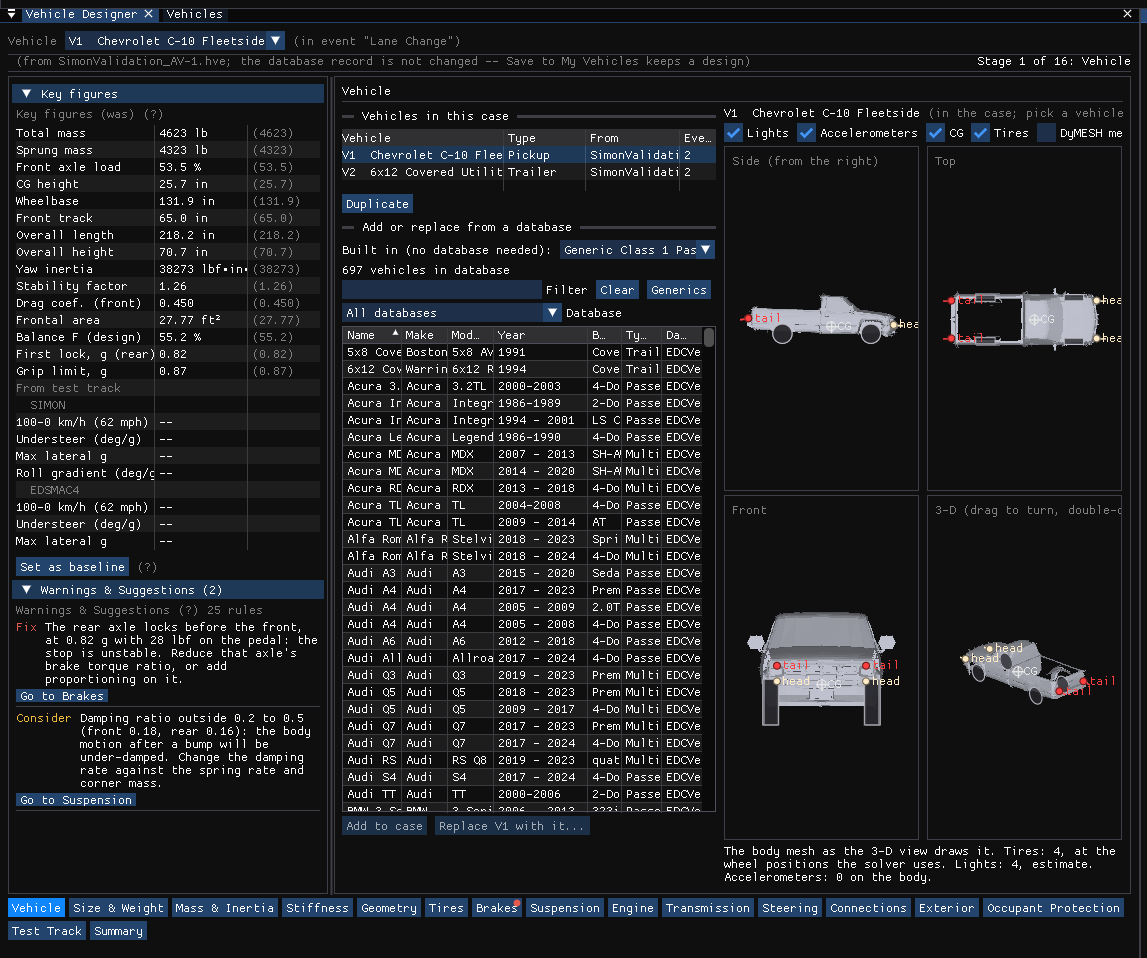
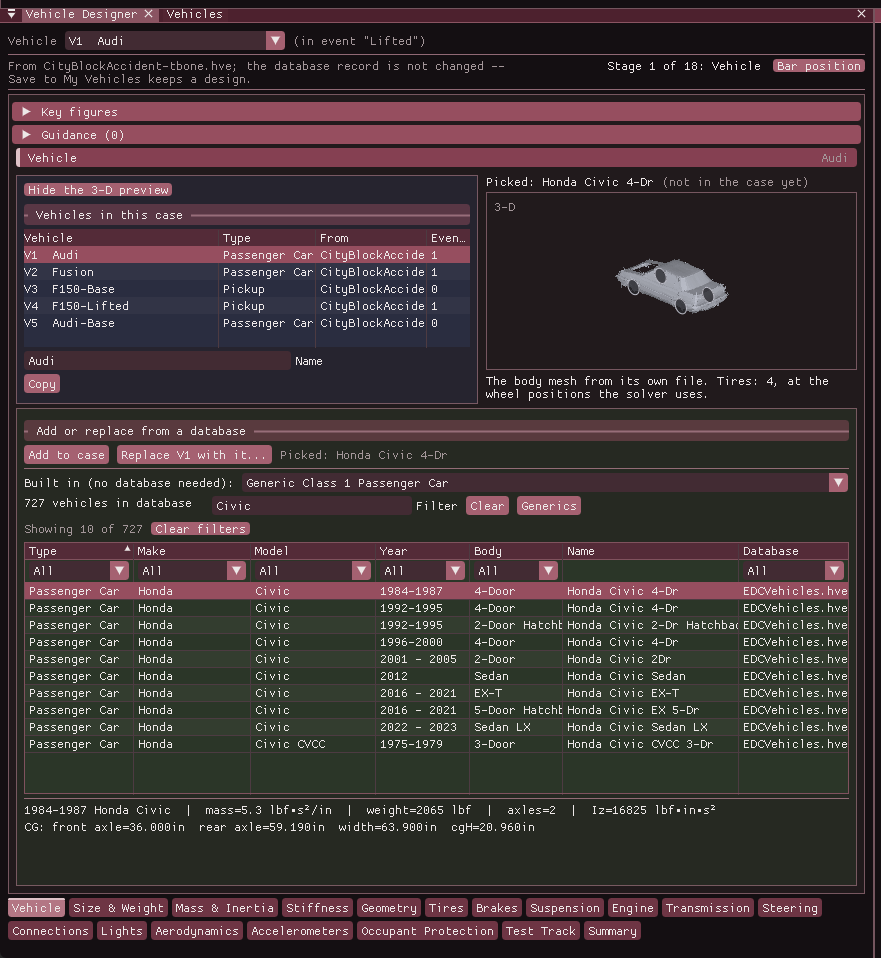
Studio manuals: Home frames all, orbit key directions, cameras Select/Show Limits, scan region points, point cloud layout, Vehicle stage layout, Key figures precision
Claude-Session: https://claude.ai/code/session_01HKL5ytwPPvRaJvMM9JRUTd

diff --git a/hve-studio-next/docs/manuals/01-user-interface/CameraSetDlg.md b/hve-studio-next/docs/manuals/01-user-interface/CameraSetDlg.md
@@ -9,9 +9,9 @@ In HVE Studio the same job is done by the **Cameras** window: **Tools › Camera
 ## Saved Cameras tab
 
 ### Camera
-A drop-down list of the saved cameras; *(active)* marks the one driving the Viewport and *(modified)* one that has been re-framed in the Viewport without being saved. **Add** creates a new camera from the current view, **Delete** deletes the selected camera, and **Rename** renames it.
+A drop-down list of the saved cameras; *(selected)* marks the one driving the Viewport and *(modified)* one that has been re-framed in the Viewport without being saved. **Add** creates a new camera from the current view, **Delete** deletes the selected camera, and **Rename** renames it.
 
-When the active camera has been re-framed in the Viewport, the window shows it as *Current -- re-framed from "<name>", not saved*, with **Save as New**, **Overwrite "<name>"** and **Revert** buttons.
+When the selected camera has been re-framed in the Viewport, the window shows it as *Current -- re-framed from "<name>", not saved*, with **Save as New**, **Overwrite "<name>"** and **Revert** buttons.
 
 ### Position
 **Carried by**
@@ -38,7 +38,7 @@ For a camera placed in the scene the dialog shows the aim both ways, kept in ste
 
 Changing Carried by, Inherit or Points at keeps the camera where it is and looking where it looks at the playback time, as far as the new setting allows.
 
-An orange note reminds that only the **active** camera drives the Viewport.
+An orange note reminds that only the **selected** camera drives the Viewport.
 
 ### Roll (deg)
 Rotates the camera about its viewing axis, tilting (banking) the picture. 0 keeps the horizon level. HVE's *Camera Tilt Angle*.
@@ -50,13 +50,13 @@ Rotates the camera about its viewing axis, tilting (banking) the picture. 0 keep
 **Sensor Fit** (Auto, Horizontal or Vertical) and the sensor size, which only change how a field of view reads as a focal length.
 
 ### Viewport Display
-**Show in Viewport** draws the camera in the 3-D view, at the given **Size**; **Show Name** labels it and **Show Limits** draws its clip range.
+**Show in Viewport** draws the camera in the 3-D view, at the given **Size**; **Show Name** labels it and **Show Limits** draws what it can see: a frame at its **Clip Start**, a frame at its **Clip End**, and the edges between them.
+
+### Select / Deselect, Copy Viewport View
+At the top of the tab, under the camera list. **Select** makes the camera drive the Viewport, so the Viewport looks through it (**Deselect** releases it); only the selected camera drives the Viewport. **Copy Viewport View** puts the Viewport's current view (position, aim and lens) into this camera, replacing what it had; on a keyed camera the keyed values are keyed at the playback time. **C** and **Shift+C** in the Viewport step through the saved cameras without opening this window.
 
 ### Keyframes
-Animates the camera over the playback time: step to the previous or next key, set the time, **Insert Key (I)**, **Delete Key** and **Clear Keys**, and choose each key's interpolation and easing and the camera's extrapolation and cycling.
-
-### Activate / Deactivate, Capture Current View
-**Activate** makes the selected camera drive the Viewport (**Deactivate** releases it). **Capture Current View** copies the Viewport's current view into the selected camera.
+Under those buttons. Animates the camera over the playback time: step to the previous or next key, set the time, **Insert Key (I)**, **Delete Key** and **Clear Keys**, and choose each key's interpolation and easing and the camera's extrapolation and cycling.
 
 ## Viewport View tab
 

diff --git a/hve-studio-next/docs/manuals/hve-users/04-vehicle-editor/12-vehicle-designer.md b/hve-studio-next/docs/manuals/hve-users/04-vehicle-editor/12-vehicle-designer.md
@@ -32,7 +32,7 @@ instead (one setting for the Vehicle, Event and Environment Designers, remembere
 between sessions); docked left or right the buttons stack in a column. The first line names the case vehicle and where it came from,
 and which stage is open.
 
-![Figure 12-1: the Vehicle Designer frame on stage 1, Vehicle, with Key figures, the case's vehicles, the database list, the picked vehicle drawn and the warnings panel](../images/hvn-04-vehicle-designer-frame.png)
+![Figure 12-1: the Vehicle Designer frame on stage 1, Vehicle: Key figures, the case's vehicles (blue), the 3-D preview of the picked vehicle, and the database section (green) with Add to case and Replace above its search and list](../images/hvn-04-vehicle-designer-frame.png)
 
 !!! warning "A shape is not a vehicle model"
     A body shape cannot determine a vehicle's mass, center of gravity, inertia,
@@ -139,8 +139,14 @@ vehicle with every setting, as a new vehicle at the end of the list in no event
 available while results are on screen: the copy renumbers no other vehicle, so
 the run keeps its own.
 
-**Add or replace from a database** is the **Add Vehicle** window's own list (see
-Vehicle › Add...): **Built in (no database needed)**, HVE's generic vehicles by
+The two halves of the stage are framed apart: **Vehicles in this case** on a blue
+ground, **Add or replace from a database** on a green one, so what is already in
+the case is never confused with what can be added.
+
+**Add or replace from a database** opens with its buttons, **Add to case** and
+**Replace V*n* with it...** (below), and the name of the vehicle **Picked** in
+the list, so a pick is added without scrolling. Under them is the **Add Vehicle**
+window's own list (see Vehicle › Add...): **Built in (no database needed)**, HVE's generic vehicles by
 type and class, for a vehicle that is in no database, then the search
 (**Filter**, **Clear**, **Generics**) and the sortable table of every vehicle in
 the loaded databases, with a filter under each column heading — pick **Type**,
@@ -155,7 +161,7 @@ angle on a double-click; the angle is kept as you change vehicles.
 
 The stage fits the window without scrolling: the vehicles in the case and the
 3-D preview side by side across the top, then the database table the stage's
-whole width, as tall as the window allows, with the buttons under it. **Hide the
+whole width, as tall as the window allows. **Hide the
 3-D preview** (top left) gives the vehicles in the case the top's whole width;
 **Show the 3-D preview** brings it back. The choice is remembered. The side, top
 and front views with the lights, accelerometers and CG marked are on the
@@ -404,7 +410,9 @@ overall length and height, yaw inertia (the sprung value, as HVE stores it),
 the static stability factor (track over twice the CG height), the front drag
 coefficient and frontal area. Beside each value, in parentheses, is the value it
 had **when the stage was opened**; a value that has moved since is shown in
-amber. A row marked `--` is one the vehicle does not state; the strip never
+amber. Both are shown to the precision of the field that edits the value (CG
+height to four decimals, the other lengths to three, a weight in lb to two), so
+an edit in the last digit shows in the numbers too. A row marked `--` is one the vehicle does not state; the strip never
 substitutes a number. The rows under **From test track** are measured by a run
 rather than entered, and read `--` until the Test Track stage fills them.
 

diff --git a/hve-studio-next/docs/manuals/new-features/05-cameras.md b/hve-studio-next/docs/manuals/new-features/05-cameras.md
@@ -28,14 +28,14 @@ Open **Tools › Cameras...**. The dialog has two tabs:
 
 | Control | Does |
 | --- | --- |
-| Camera list | Chooses which saved camera the dialog edits. The camera being looked through is marked *(active)*. |
+| Camera list | Chooses which saved camera the dialog edits. The camera being looked through is marked *(selected)*. |
 | **Add** | A new camera, framed as the viewport is now |
 | **Delete**, **Rename** | Act on the selected camera |
-| **Activate** / **Deactivate** | Look through the selected camera (it drives the viewport), or stop |
-| **Capture Current View** | Copy the viewport's current framing into the selected camera |
+| **Select** / **Deselect** | Look through this camera (it drives the viewport), or stop. At the top of the tab, under the camera list |
+| **Copy Viewport View** | Put the viewport's current view (position, aim and lens) into this camera, replacing what it had |
 
-**Looking through a camera.** Only the **active** camera drives the viewport.
-Press **Activate** in the dialog, pick the camera in the viewport bar's camera
+**Looking through a camera.** Only the **selected** camera drives the viewport.
+Press **Select** in the dialog, pick the camera in the viewport bar's camera
 list, or press **C** (next camera) or **Shift+C** (previous) when no text field
 is being edited. In the Dope Sheet, double-click a camera's header.
 
@@ -132,7 +132,7 @@ honors them while you look through the camera:
 | | **Clip Start**, **Clip End** | The nearest and farthest distances drawn |
 | Camera | **Sensor Fit** | Auto, Horizontal or Vertical |
 | | **Size / Width / Height (mm)** | The sensor size the focal length is measured against. Vertical 24 mm is the 35 mm-equivalent HVE Studio has always used; Blender's default is Auto, 36 mm |
-| Viewport Display | **Show in Viewport**, **Size**, **Show Name**, **Show Limits** | How the camera is drawn in the 3-D view (Show Limits draws the clip range) |
+| Viewport Display | **Show in Viewport**, **Size**, **Show Name**, **Show Limits** | How the camera is drawn in the 3-D view (Show Limits draws what it can see: frames at Clip Start and Clip End, and the edges between them) |
 
 **Depth of Field** (with **Focus Distance** and **F-Stop**) blurs what is nearer
 or farther than the focus distance while you look through the camera; it is
@@ -143,7 +143,7 @@ them.
 
 A saved camera can be animated over playback time.
 
-1. **Activate** the camera (look through it).
+1. **Select** the camera (look through it).
 2. Set the playback time, frame the view — orbit, pan, dolly, zoom, roll — and
    press **I** (when no text field is being edited), or **Insert Key (I)** in the dialog's
    **Keyframes** section.

diff --git a/hve-studio-next/docs/manuals/programs/EDSMAC4/05-tutorial.md b/hve-studio-next/docs/manuals/programs/EDSMAC4/05-tutorial.md
@@ -263,7 +263,7 @@ Let's attach a camera to the Ford:
     ![Figure 5-10](images/p085-fig5-10.png)
     *Figure 5-10: Relationship between the camera position and picture center coordinates, in the vehicle's SAE axes (z down).*
 
-6. Click **Activate**. Only the active camera drives the viewport; the camera list on the playback bar switches between it and **Free view**.
+6. Click **Select**. Only the selected camera drives the viewport; the camera list on the playback bar switches between it and **Free view**.
 
 ![Figure 5-9](images/hvn-edsmac4-cameras.png)
 *Figure 5-9: The Cameras window with the Ford driver camera of this tutorial, shown in US units (0.5 m = 1.64 ft, 0.9 m = 2.95 ft, 10 m = 32.81 ft, 2.5 m = 8.20 ft).*
@@ -288,7 +288,7 @@ Next, we can repeat the above steps for the driver of the Nissan Sentra:
 
     > **NOTE:** These coordinates are relative to the Nissan Sentra, and define a view angle looking forward and to the right.
 
-5. Click **Activate**, press **|<**, and press **Play**.
+5. Click **Select**, press **|<**, and press **Play**.
 
 Watch for the moment the Ford becomes visible — in the original tutorial, at about t = 1.3 seconds. Because there was no pre-impact skidding of the Nissan, we cannot draw any conclusions regarding the Nissan driver's perception/reaction time (other than there was a lack of driver response).
 
@@ -382,7 +382,7 @@ The Trajectory Simulation is the playback of the event in the viewport, controll
 
 > **NOTE:** No calculations take place during playback; the run is solved once, when you press Run.
 
-During the camera exercise above, the active camera was attached to the Nissan. To view the trajectory simulation from the street again, choose **Free view** in the camera list on the playback bar (or, in **Tools › Cameras...**, add a camera with **Carried by** **None (placed in the scene)** and **Points at** **A fixed point**, set its **Eye** and **Center**, and click **Activate**).
+During the camera exercise above, the selected camera was attached to the Nissan. To view the trajectory simulation from the street again, choose **Free view** in the camera list on the playback bar (or, in **Tools › Cameras...**, add a camera with **Carried by** **None (placed in the scene)** and **Points at** **A fixed point**, set its **Eye** and **Center**, and click **Activate**).
 
 To visualize the motion:
 

diff --git a/hve-studio-next/docs/manuals/hve-users/05-environment-editor/12-creating-editing-environments.md b/hve-studio-next/docs/manuals/hve-users/05-environment-editor/12-creating-editing-environments.md
@@ -527,14 +527,17 @@ image's resolution. The image is saved beside the surface as a `.png`, with a
 `.mtl` file that names it.
 
 To surface only part of the scan, use **Region to surface**: tick **Click
-corners in the 3-D view**, then click around the area, ideally looking straight
-down. The outline is drawn in yellow. **Undo corner** removes the last corner
-and **Clear region** removes them all. With fewer than three corners the whole
-scan is used. Pressing the create or replace button turns corner clicking off,
-so looking around the result does not add corners.
+points in the 3-D view**, and the view turns to look straight down,
+orthographically, so each point lands where you click it whatever the scan's
+height there. Click points around the area; they make a polygon, drawn as a
+thick bright green outline (the edge that closes it is dashed while you are
+still clicking). **Undo point** removes the last point and **Clear region**
+removes them all. With fewer than three points the whole scan is used, and the
+area is given in the display units. Pressing the create or replace button turns
+point clicking off, so looking around the result does not add points.
 
 **Make a friction zone from the region** adds a friction zone with the same
-outline (up to 16 corners), for a patch of the scan that is gravel, a wet stain
+outline (up to 16 points), for a patch of the scan that is gravel, a wet stain
 or a painted area. Set its friction multiplier under **Surface Generator**.
 
 If the case already has site geometry, the button reads **Replace Site with

diff --git a/hve-studio-next/docs/manuals/hve-users/08-3d-editor/21-manipulators.md b/hve-studio-next/docs/manuals/hve-users/08-3d-editor/21-manipulators.md
@@ -79,7 +79,7 @@ The seven HVE manipulators and their HVE Studio counterparts:
     **Tools › Cameras…** (also a right-click on the **Camera** button under the view cube, or **Camera Properties…** on the view's right-click menu) has two tabs:
 
     - **Viewport View** — the live camera: **Orbit** or **Free (Euler)** control; view presets **Top**, **Front**, **Rear**, **Left**, **Right**, **Persp**; azimuth, elevation, distance and target point (orbit) or eye position and pitch/yaw/roll (free); **Perspective** or **Orthographic** projection with focal length or field of view; **Reset Camera**.
-    - **Saved Cameras** — the case's named cameras (up to 16). **Add** captures the current view as a new camera; **Delete** and **Rename** act on the selected one; **Activate** looks through it (only the active camera drives the view); **Capture Current View** stores the current framing in it. Re-framing an active camera in the view makes it *Current*, with **Save as New**, **Overwrite** and **Revert**.
+    - **Saved Cameras** — the case's named cameras (up to 16). **Add** captures the current view as a new camera; **Delete** and **Rename** act on the selected one; **Select** looks through it (only the selected camera drives the view); **Copy Viewport View** puts the current view into it. Both sit at the top of the tab with the keyframe controls. Re-framing a selected camera in the view makes it *Current*, with **Save as New**, **Overwrite** and **Revert**.
 
     A saved camera is set up as a Blender camera is, with two independent settings:
 

diff --git a/hve-studio-next/docs/manuals/getting-started/03-interface-tour.md b/hve-studio-next/docs/manuals/getting-started/03-interface-tour.md
@@ -165,9 +165,10 @@ Properties...** and **Reset Camera**.
 | Double-click | Return to the default view |
 | **1**, **3**, **7** (top row or keypad) | Front, right, top view; with **Ctrl**, rear, left, bottom |
 | **9** | The opposite view |
-| **5** | Switch between perspective and orthographic |
+| **5** | Switch between perspective and orthographic (the hint line names the one it switches to) |
 | **.** | Frame the selected object (in the Human editor, the selected body segment, else the whole figure) |
-| **2**, **4**, **6**, **8** | Orbit in 15° steps |
+| **Home** | Frame everything: every vehicle drawn, the site's geometry and the point cloud (to find a scan that loaded far away) |
+| **2**, **4**, **6**, **8** | Orbit in 15° steps: **2** up, **8** down, **4** left, **6** right (the hint line shows them with arrows) |
 | **C** / **Shift+C** | Look through the next / previous saved camera |
 | **I** | Insert a keyframe on the camera you are looking through, at the current playback time |
 

diff --git a/hve-studio-next/docs/manuals/hve-users/02-menu-reference/05-view-menu.md b/hve-studio-next/docs/manuals/hve-users/02-menu-reference/05-view-menu.md
@@ -353,8 +353,8 @@ scene camera, click again for the free view; right-click for Camera Properties)
 and **Perspective/Orthographic**. The number keys (or keypad) also set standard
 views: **1** front (Ctrl+1 rear), **3** right (Ctrl+3 left), **7** top (Ctrl+7
 bottom), **9** the opposite side, **5** perspective/orthographic, **4**/**6**
-and **8**/**2** orbit in 15° steps, and **.** frames the selection (a vehicle, a human, or a
-surface). Choosing or adding a vehicle or human in the Event editor's lists, or a human in the
+and **8**/**2** orbit in 15° steps, **.** frames the selection (a vehicle, a human, or a
+surface), and **Home** frames everything (every vehicle, the site and the point cloud). Choosing or adding a vehicle or human in the Event editor's lists, or a human in the
 Human editor, brings the view to it; a click in the view does not move the camera. Double-click the viewport,
 or right-click › **Reset Camera**, to reset the view.
 

diff --git a/hve-studio-next/docs/manuals/hve-users/11-appendices/32-tutorial.md b/hve-studio-next/docs/manuals/hve-users/11-appendices/32-tutorial.md
@@ -247,7 +247,7 @@ The view of the crash scene from a general perspective shows all the collision a
     > **NOTE:** HVE Studio's camera fields measure Z **up**. HVE's Set Camera dialog measured it down, so HVE's z = −5.0 ft is entered here as 5.0 ft.
 
 4. Under **Aim**, set **Points at** to the Chevrolet Suburban, and the **Aim** offset to 0, 0, 0 (the Suburban's CG) — or press **Aim at the vehicle**.
-5. Press **Activate**. The scene is viewed from the Honda driver's perspective.
+5. Press **Select**. The scene is viewed from the Honda driver's perspective.
 6. Press **Play** on the playback bar. The Viewport displays the sequence as seen by the driver of the Honda.
 
 Repeat with a new camera for each driver; switch between the saved cameras with the camera list on the playback bar, or with **C**.

diff --git a/hve-studio-next/docs/manuals/08-environment/EnvtInfoDlg.md b/hve-studio-next/docs/manuals/08-environment/EnvtInfoDlg.md
@@ -589,8 +589,9 @@ event that has them (hover it for the list). The case itself is untouched.
 - A **Rectangle** (**Center X**, **Center Y**, **Length**, **Width**,
   **Heading (deg)**, and **Set Outline to Rectangle**, which replaces the
   outline with that rectangle; length runs along the heading, 0 = +x) and its
-  **Corners** (up to 16): **Click corners in the 3-D view**, **Clear Corners**,
-  the corners' X and Y, and **Add Corner**.
+  **Points** (up to 16): **Click points in the 3-D view** (the view turns to look
+  straight down, so each point lands where it is clicked), **Clear Points**, the
+  points' X and Y, and **Add Point**.
 
 A surface the run cannot apply says why. The 3-D view draws each surface where
 the run put it; one switched off for the run is drawn faint.

diff --git a/hve-studio-next/docs/manuals/hve-users/02-menu-reference/03-files-menu.md b/hve-studio-next/docs/manuals/hve-users/02-menu-reference/03-files-menu.md
@@ -116,6 +116,10 @@ vehicle mesh or site geometry, image, database) and labeled with its extension; 
 pointer over one for its full name, size and date. The view you choose is kept for the next
 time the browser opens.
 
+A click in the **Path** box selects the whole path, so typing or pasting replaces it. **Enter**
+in the **File** box, or with no box being typed in, does what the **Open** (or **Save**) button
+does; that button is drawn in the accent color as the browser's default.
+
 **New folder** (beside the **Folders** heading) makes a folder inside the one you are in: type a
 name and press **Enter**. A name Windows could not hold (an empty name, one with `/ \ : * ? " < > |`,
 a trailing dot or space, or a device name such as `CON`) is refused with the reason, and a name

diff --git a/hve-studio-next/docs/manuals/hve-users/07-playback-editor/17-report-playback-windows.md b/hve-studio-next/docs/manuals/hve-users/07-playback-editor/17-report-playback-windows.md
@@ -94,7 +94,7 @@ The playback bar along the bottom of the Viewport, in Event mode, replaces HVE's
 - **Step back** / **Step forward** — move one output step.
 - **Play** / **Pause** — run the playback forward, or pause it.
 - **Jump to end** — advance to the end of the simulation.
-- **Camera** — the active camera (C and Shift+C cycle through the cameras).
+- **Camera** — the selected camera (C and Shift+C cycle through the cameras).
 - **Time slider** — drag to any time; the current time is shown, and a time can be typed into the box beside it to jump there.
 
 !!! warning "Not in HVE Studio"
